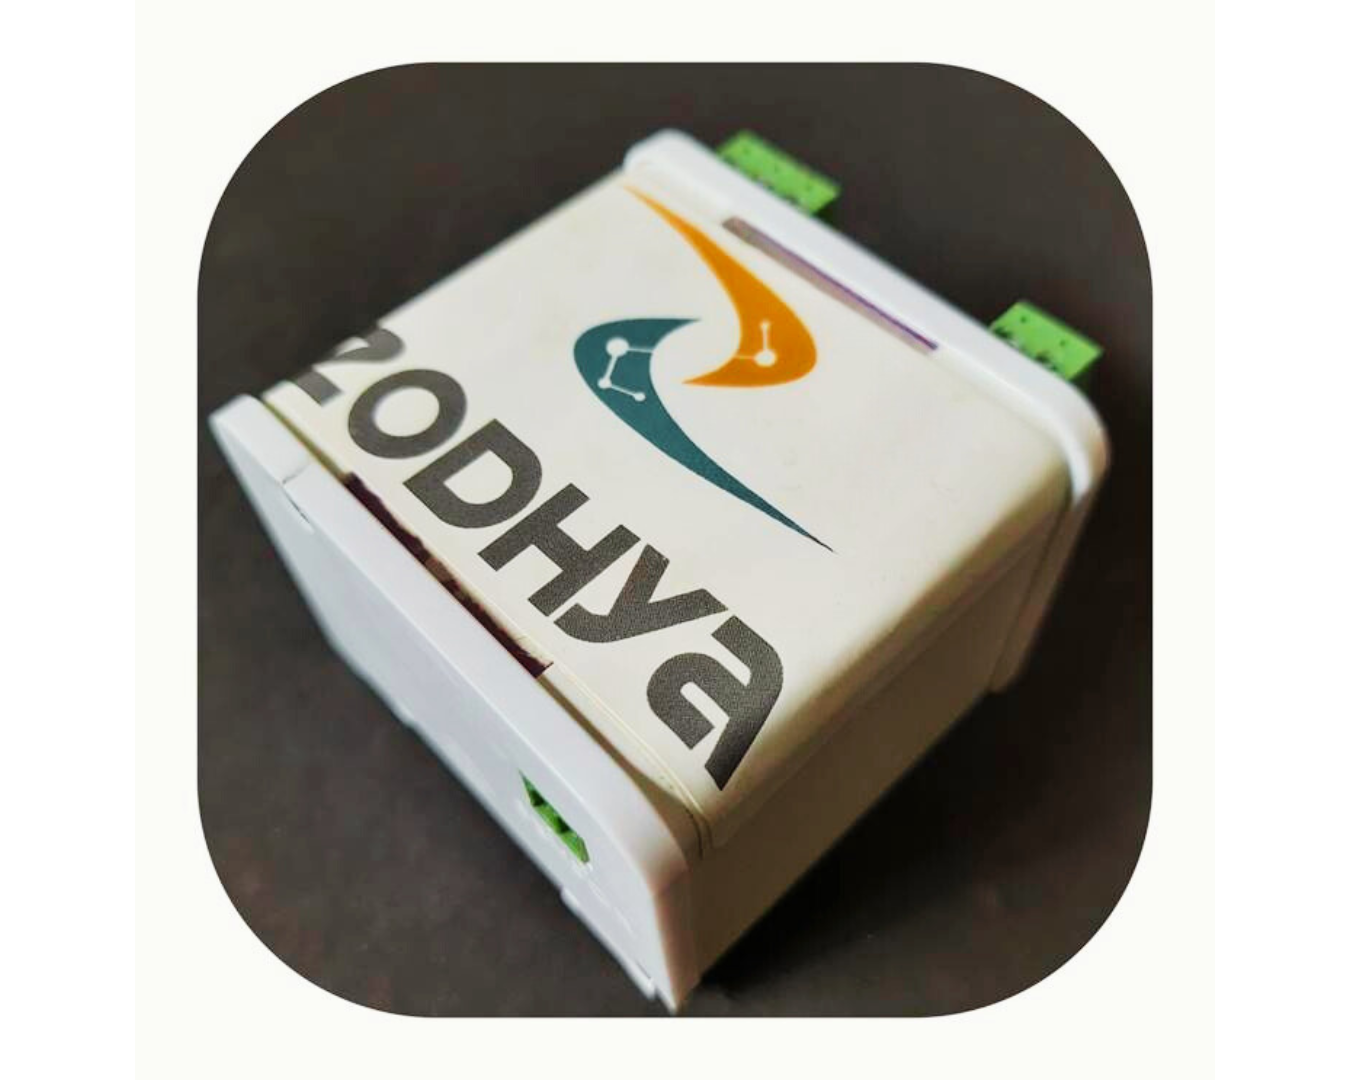
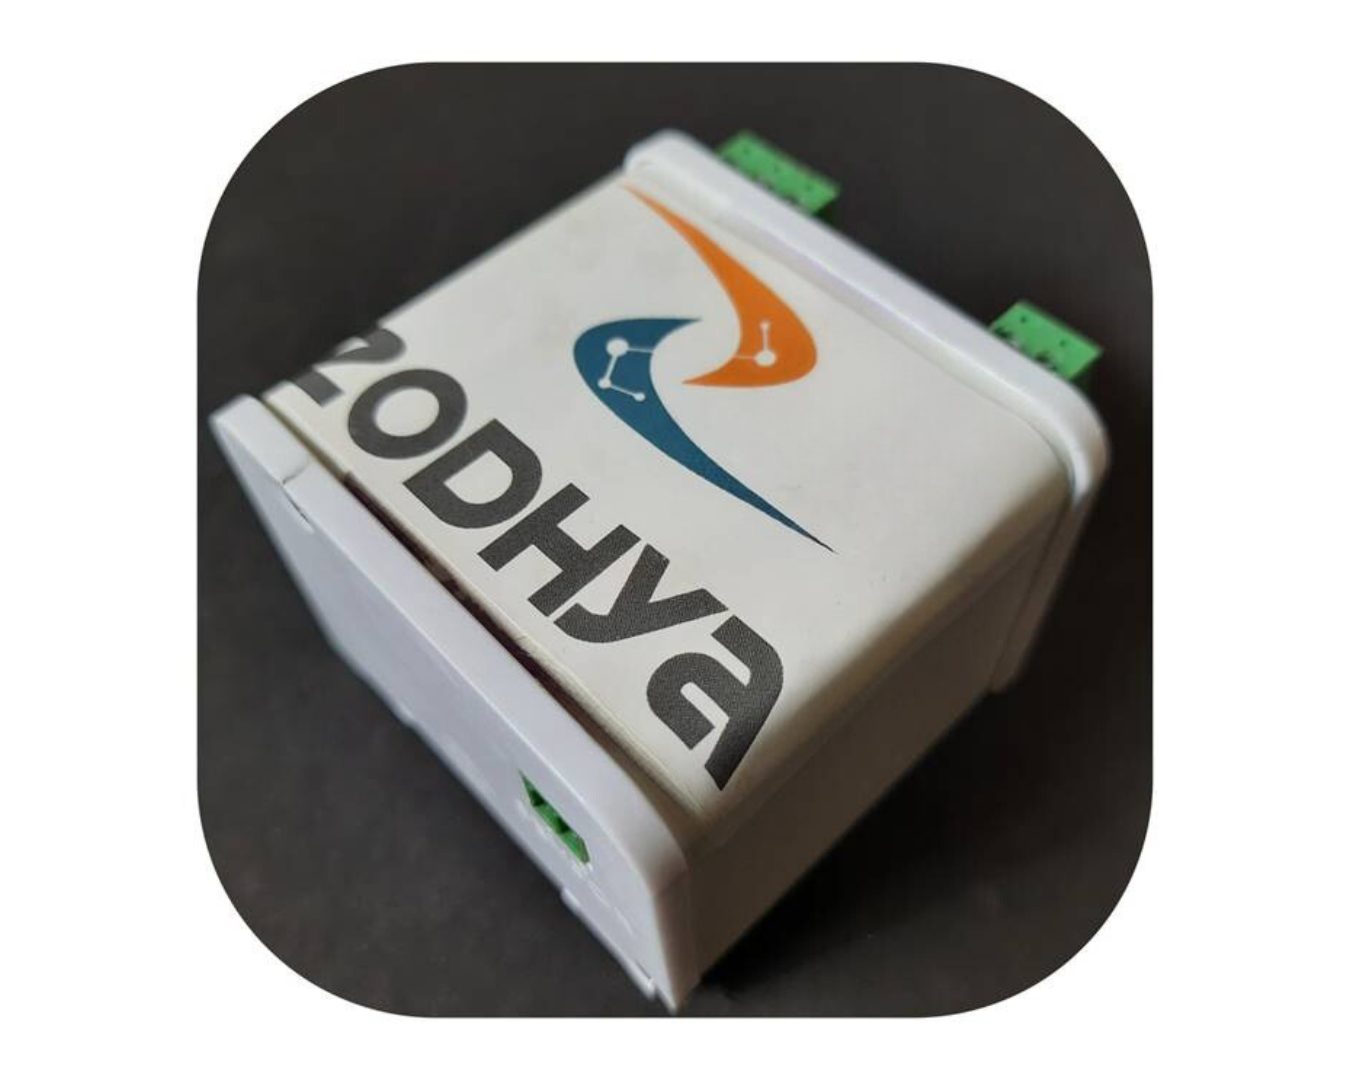
Minor chnages

Changed region(s): [[0.1556, 0.1222, 0.84, 0.9472], [0.3111, 0.1833, 0.4356, 0.275], [0.4044, 0.55, 0.4356, 0.5806]]

diff --git a/index.html b/index.html
@@ -206,16 +206,16 @@
                             </div>
                             <ul class="list-item clearfix wow fadeInUp" data-wow-delay="400ms"
                                 data-wow-duration="1500ms">
-                                <li>  <i class="fas fa-angle-double-right" style="color: #1b617d;"></i> One-third of
+                                <li> <i class="fas fa-angle-double-right" style="color: #1b617d;"></i> One-third of
                                     the global emissions are from
                                     buildings, the primary reason being electricity.</li>
-                                <li>   <i class="fas fa-angle-double-right" style="color: #1b617d;"></i> 60-70% of
+                                <li> <i class="fas fa-angle-double-right" style="color: #1b617d;"></i> 60-70% of
                                     energy consumption in commercial spaces
                                     is contributed by air conditioning/ HVAC usage.</li>
-                                <li>  <i class="fas fa-angle-double-right" style="color: #1b617d;"></i> Extended
+                                <li> <i class="fas fa-angle-double-right" style="color: #1b617d;"></i> Extended
                                     working hours of 10-14 hours per day also
                                     lead to higher energy usage.</li>
-                                <li>  <i class="fas fa-angle-double-right" style="color: #1b617d;"></i> Managing and
+                                <li> <i class="fas fa-angle-double-right" style="color: #1b617d;"></i> Managing and
                                     keeping track of multiple spaces is
                                     chaotic resulting in operational inefficiencies.</li>
                             </ul>
@@ -240,8 +240,9 @@
 
 
     <!-- product-section -->
-     <section class="news-section">
-        <div class="pattern-layer wow slideInRight animated" data-wow-delay="500ms" data-wow-duration="1500ms" style="background-image: url(assets/images/shape/pattern-2.png)"></div>
+    <section class="news-section">
+        <div class="pattern-layer wow slideInRight animated" data-wow-delay="500ms" data-wow-duration="1500ms"
+            style="background-image: url(assets/images/shape/pattern-2.png)"></div>
         <div class="auto-container">
             <div class="sec-title text-center">
                 <h2>Products</h2>
@@ -251,12 +252,14 @@
                     <div class="news-block-one wow fadeInUp" data-wow-delay="0ms" data-wow-duration="1500ms">
                         <div class="inner-box">
                             <div class="image-holder">
-                                <figure class="image-box"><img src="assets/images/products/soul/Soul0.png" alt="soul.png"></figure>
+                                <figure class="image-box"><img src="assets/images/products/soul/Soul0.png"
+                                        alt="soul.png"></figure>
                                 <div class="link"><a href="soul.html"><i class="fas fa-arrow-right"></i></a></div>
                             </div>
                             <div class="lower-content">
                                 <h3><a href="soul.html">Soul </a></h3>
-                                <p>  <a href="soul.html" style="text-decoration: none; color:black;">Operate your business smarter. Track energy inefficiencies real time.</a></p>
+                                <p> <a href="soul.html" style="text-decoration: none; color:black;">Operate your
+                                        business smarter. Track energy inefficiencies real time.</a></p>
                             </div>
                         </div>
                     </div>
@@ -265,12 +268,14 @@
                     <div class="news-block-one wow fadeInUp" data-wow-delay="300ms" data-wow-duration="1500ms">
                         <div class="inner-box">
                             <div class="image-holder">
-                                <figure class="image-box"><img src="assets/images/products/saverx/SaverX.png" alt="saverx.png"></figure>
+                                <figure class="image-box"><img src="assets/images/products/saverx/SaverX.png"
+                                        alt="saverx.png"></figure>
                                 <div class="link"><a href="saverx.html"><i class="fas fa-arrow-right"></i></a></div>
                             </div>
                             <div class="lower-content">
                                 <h3><a href="saverx.html"> SaverX</a></h3>
-                                <p> <a href="saverx.html" style="text-decoration: none; color:black;">Add intelligence to your existing BMS and save energy bills.</a></p>
+                                <p> <a href="saverx.html" style="text-decoration: none; color:black;">Add intelligence
+                                        to your existing BMS and save energy bills.</a></p>
                             </div>
                         </div>
                     </div>
@@ -279,12 +284,14 @@
                     <div class="news-block-one wow fadeInUp" data-wow-delay="600ms" data-wow-duration="1500ms">
                         <div class="inner-box">
                             <div class="image-holder">
-                                <figure class="image-box"><img src="assets/images/products/saver/Saver.png" alt="saver.png"></figure>
+                                <figure class="image-box"><img src="assets/images/products/saver/Saver.png"
+                                        alt="saver.png"></figure>
                                 <div class="link"><a href="saver.html"><i class="fas fa-arrow-right"></i></a></div>
                             </div>
                             <div class="lower-content">
                                 <h3><a href="saver.html"> Saver</a></h3>
-                                <p>  <a href="saver.html" style="text-decoration: none; color:black;">Retrofit to your existing AC and reduce energy consumption by 30%.</a> </p>
+                                <p> <a href="saver.html" style="text-decoration: none; color:black;">Retrofit to your
+                                        existing AC and reduce energy consumption by 30%.</a> </p>
                             </div>
                         </div>
                     </div>

diff --git a/soul.html b/soul.html
@@ -221,7 +221,7 @@
                                     </li>
                                     <li>
                                         <i class="fas fa-angle-double-right" style="color: #1b617d;"></i> Can be used
-                                        with any electrical appliance(*max of 65 A), with any build
+                                        with any electrical appliance(*max of 65 A), with any building.
                                     </li>
                                 </ul>
                             </div>

diff --git a/saver.html b/saver.html
@@ -238,7 +238,7 @@
                     <div id="image_block_04">
                         <div class="image-box " style="height: -100px;">
                             <figure class="image js-tilt  wow slideInRight" data-wow-delay="00ms"
-                                data-wow-duration="1500ms"><img src="assets/images/products/saver/Saver.png" alt="">
+                                data-wow-duration="1500ms"><img src="assets/images/products/saver/Saver0.png" alt="">
 
                         </div>
                     </div>
